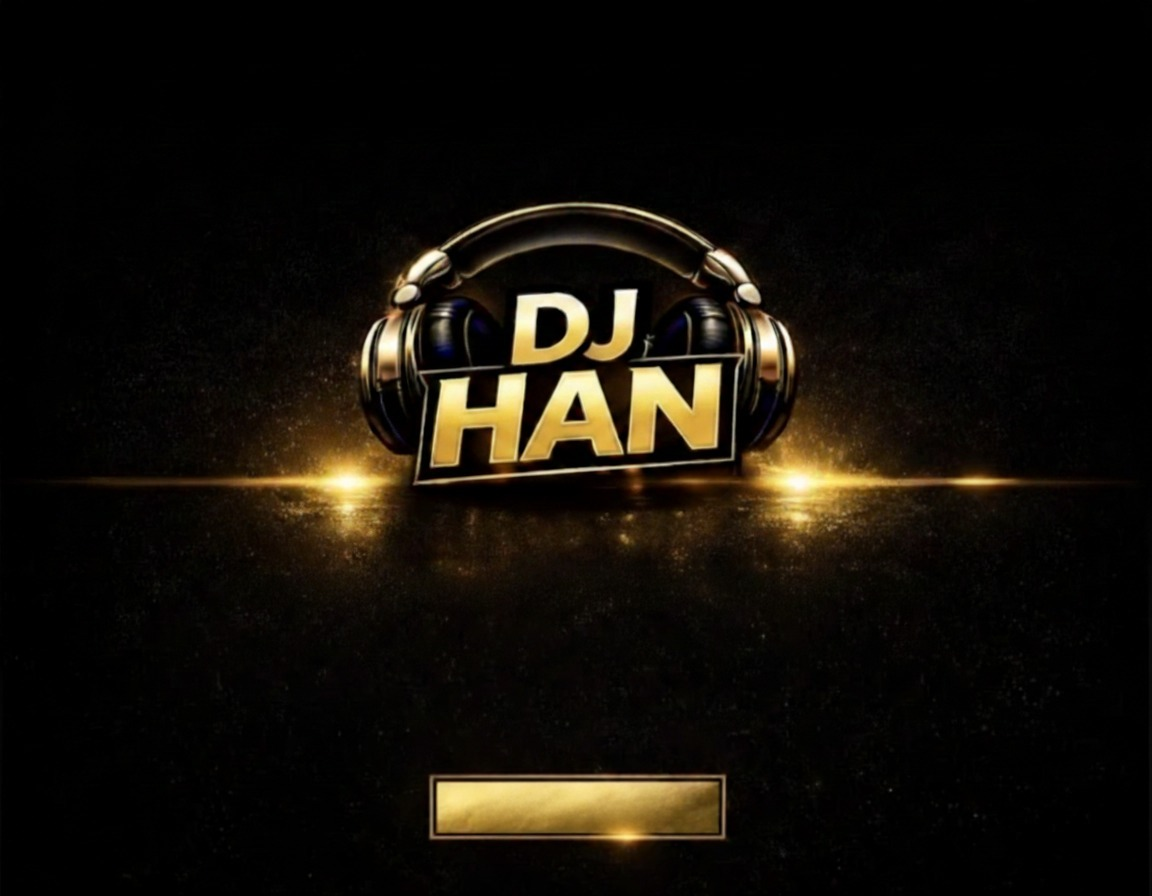
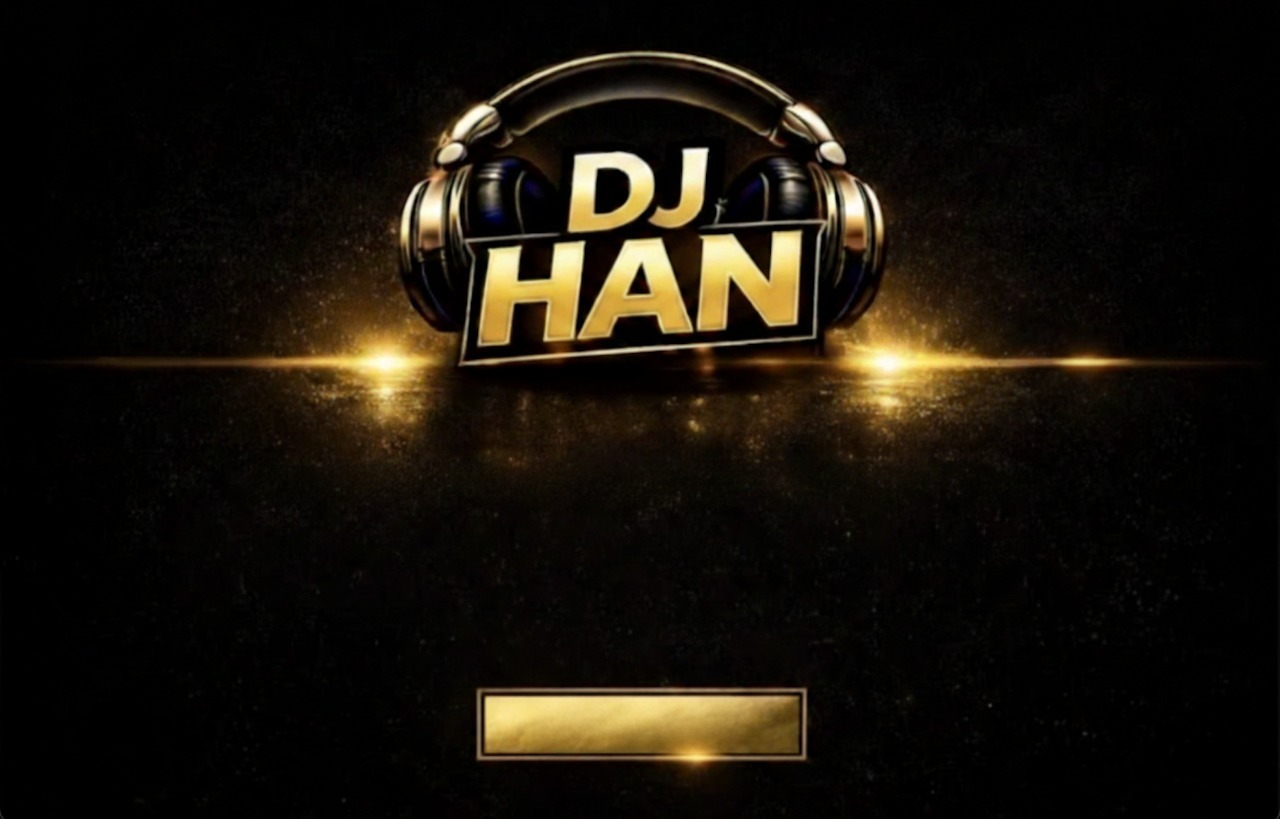
a

Changed region(s): [[0.0625, 0.0611, 0.9375, 0.6716], [0.375, 0.8242, 0.625, 0.9463]]

diff --git a/index.html b/index.html
@@ -68,40 +68,36 @@
     <div class="container hero-inner"
       style="text-align:center; display:flex; flex-direction:column; align-items:center; padding-top:40px;">
       <!-- Spacer to push next content down to lower third -->
-      <div style="margin-top: 450px;"></div>
+      <div style="margin-top: 530px;"></div>
 
       <h2 id="hero-title" class="h1"
-        style="font-size: clamp(2rem, 4vw, 3.5rem); text-transform:uppercase; letter-spacing:0.02em; margin-bottom:15px;">
+        style="font-size: clamp(2rem, 4vw, 3.5rem); text-transform:uppercase; letter-spacing:0.05em; margin-top:-20px; margin-bottom:50px;">
         <span class="text-gradient-gold" style="display:block; line-height:1.2;">Turn Your Event Into A</span>
         <span class="text-gradient-gold" style="display:block; line-height:1.2;">Night They’ll Never Forget</span>
       </h2>
 
       <p id="hero-subtitle" class="sub"
-        style="font-size:0.95rem; opacity:0.95; max-width:900px; margin-bottom:80px; letter-spacing:0.5px; color: #eee; font-family: Montserrat, sans-serif; font-weight: 500;">
+        style="font-size:1rem; opacity:0.95; max-width:900px; margin-top:-10px; margin-bottom:40px; letter-spacing:1px; color: #eee; font-family: Montserrat, sans-serif; font-weight: 500;">
         Professional DJ <span style="color:#d4af37">•</span> Weddings <span style="color:#d4af37">•</span> Bar/Bat
         Mitzvahs <span style="color:#d4af37">•</span> Private Events <span style="color:#d4af37">•</span> Corporate
       </p>
 
       <div class="hero-ctas" style="justify-content:center;">
-        <a id="hero-btn-primary" class="text-link-gold" href="#book">Book Now</a>
+        <a id="hero-btn-primary" class="btn btn-gold-transparent" href="#book">Book Now</a>
       </div>
     </div>
   </section>
 
   <!-- Media Section: Gap Reduced -->
-  <section id="media" class="section" style="padding:0; max-width:100%; overflow:hidden;">
+  <section id="media" class="section media-section" style="padding:0; max-width:100%; overflow:hidden;">
     <div style="width:100%; padding:0; margin:0;">
       <div class="media-bg-wrapper"
-        style="position:relative; width:100%; max-width:100%; margin:0; aspect-ratio: 16/9; background: url('assets/image-2.png') no-repeat center center / 100% 100%;">
+        style="position:relative; width:100%; max-width:100%; margin:0; aspect-ratio: 16/9; background: url('assets/image-2.jpeg') no-repeat center center / 100% 100%;">
 
         <!-- Header Text -->
         <div class="section-header-box"
           style="position:absolute; top:14%; left:5%; width:54%; height:12%; display:flex; align-items:center; justify-content:center;">
-          <h2 id="media-title" class="section-title" style="margin:0; letter-spacing: 2px; text-transform: uppercase; font-size: clamp(1.5rem, 2.5vw, 3.5rem); line-height:1; font-weight:800; 
-                   background: linear-gradient(180deg, #efdca4 0%, #e6b422 100%);
-                   -webkit-background-clip: text; background-clip: text; 
-                   -webkit-text-fill-color: transparent;
-                   filter: drop-shadow(0 2px 5px rgba(255, 215, 0, 0.4)) drop-shadow(0 2px 2px rgba(0,0,0,0.8));">
+          <h2 id="media-title" class="media-heading media-gold-text">
             See The Energy. Feel The Moment.
           </h2>
         </div>
@@ -117,13 +113,13 @@
         <!-- Testimonials: Moved closer to center (Right 8%) -->
         <div class="testimonials-frame"
           style="position:absolute; top:10%; right:3%; width:28%; height:82%; display:flex; flex-direction:column; justify-content:center; align-items:center; text-align:center;">
-          <h3 id="testimonials-title" class="text-gradient-gold"
-            style="font-size:clamp(1.5rem, 3vw, 3.5rem); margin-bottom:10px; letter-spacing:1px; line-height:1.2;">
+          <h3 id="testimonials-title" class="media-gold-text"
+            style="font-size:clamp(1.5rem, 3vw, 3.5rem); margin-bottom:10px; line-height:1.2;">
             VIDEO
             TESTIMONIALS
           </h3>
-          <p id="testimonials-status" class="text-gradient-gold"
-            style="letter-spacing:3px; font-size:clamp(1rem, 2vw, 2rem); font-weight:600; margin:0;">COMING
+          <p id="testimonials-status" class="media-gold-text media-gold-thin"
+            style="font-size:clamp(1rem, 2vw, 2rem); margin:0;">COMING
             SOON</p>
         </div>
       </div>
@@ -135,15 +131,12 @@
     <div style="width:100%; padding:0; margin:0;">
       <!-- Wrapper for Image 3 -->
       <div class="book-bg-wrapper"
-        style="position:relative; width:100%; margin:0 auto; aspect-ratio: 16/9; background: url('assets/image-3.png') no-repeat center center / 100% 100%; display:flex; justify-content:center;">
+        style="position:relative; width:100%; margin:0 auto; aspect-ratio: 16/9; background: url('assets/image-3.jpeg') no-repeat center center / 100% 100%; display:flex; justify-content:center;">
 
         <!-- Section Heading -->
-        <div style="position:absolute; top:6%; left:50%; transform:translateX(-50%); text-align:center; width:90%;">
-          <h2 id="cta-title" class="section-title" style="margin:0; letter-spacing: 2px; text-transform: uppercase; font-size: clamp(2rem, 4vw, 4.5rem); line-height:1.2; font-weight:800; 
-                   background: linear-gradient(180deg, #efdca4 0%, #e6b422 100%);
-                   -webkit-background-clip: text; background-clip: text; 
-                   -webkit-text-fill-color: transparent;
-                   filter: drop-shadow(0 2px 5px rgba(255, 215, 0, 0.4)) drop-shadow(0 2px 2px rgba(0,0,0,0.8));">
+        <div style="position:absolute; top:7%; left:50%; transform:translateX(-50%); text-align:center; width:90%;">
+          <h2 id="cta-title" class="media-gold-text"
+            style="margin:0; font-size: clamp(1.8rem, 3.2vw, 3.8rem); line-height:1.15; font-weight:600; letter-spacing:0.03em;">
             Ready to lock in your date?
           </h2>
         </div>
@@ -151,58 +144,58 @@
         <form method="POST" action="#" style="width:100%; height:100%; position:relative;">
 
           <!-- Row 1: Name & Phone (Approx Top 27%) -->
-          <label id="label-name"
-            style="position:absolute; top:24%; left:15%; font-family:Oswald; font-size:clamp(0.7rem, 1.2vw, 1.2rem); letter-spacing:1px; font-weight:600;
-                        background: linear-gradient(180deg, #efdca4 0%, #e6b422 100%); -webkit-background-clip: text; background-clip: text; -webkit-text-fill-color: transparent;">NAME</label>
+          <label id="label-name" class="form-label"
+            style="position:absolute; top:24%; left:15%; font-size:clamp(0.9rem, 1.7vw, 1.5rem); font-weight:600;
+                        background: linear-gradient(180deg, #cabd98 0%, #ddbb56 100%); -webkit-background-clip: text; background-clip: text; -webkit-text-fill-color: transparent;">Name</label>
           <input name="name" required
             style="position:absolute; top:28%; left:15%; width:35%; height:6%; background:transparent; border:none; color:#e6b422; font-family:Oswald; font-size:clamp(0.8rem, 1.5vw, 1.5rem); letter-spacing:1px; outline:none; padding-left:10px;" />
 
-          <label id="label-phone"
-            style="position:absolute; top:24%; left:52%; font-family:Oswald; font-size:clamp(0.7rem, 1.2vw, 1.2rem); letter-spacing:1px; font-weight:600;
-                        background: linear-gradient(180deg, #efdca4 0%, #e6b422 100%); -webkit-background-clip: text; background-clip: text; -webkit-text-fill-color: transparent;">PHONE</label>
+          <label id="label-phone" class="form-label"
+            style="position:absolute; top:24%; left:52%; font-size:clamp(0.9rem, 1.7vw, 1.5rem); font-weight:600;
+                        background: linear-gradient(180deg, #cabd98 0%, #ddbb56 100%); -webkit-background-clip: text; background-clip: text; -webkit-text-fill-color: transparent;">Phone</label>
           <input name="phone" required
             style="position:absolute; top:28%; left:52%; width:36.5%; height:6%; background:transparent; border:none; color:#e6b422; font-family:Oswald; font-size:clamp(0.8rem, 1.5vw, 1.5rem); letter-spacing:1px; outline:none; padding-left:10px;" />
 
           <!-- Row 2: Email & Event Type (Approx Top 41%) -->
-          <label id="label-email"
-            style="position:absolute; top:36%; left:15%; font-family:Oswald; font-size:clamp(0.7rem, 1.2vw, 1.2rem); letter-spacing:1px; font-weight:600;
-                        background: linear-gradient(180deg, #efdca4 0%, #e6b422 100%); -webkit-background-clip: text; background-clip: text; -webkit-text-fill-color: transparent;">EMAIL</label>
+          <label id="label-email" class="form-label"
+            style="position:absolute; top:36%; left:15%; font-size:clamp(0.9rem, 1.7vw, 1.5rem); font-weight:600;
+                        background: linear-gradient(180deg, #cabd98 0%, #ddbb56 100%); -webkit-background-clip: text; background-clip: text; -webkit-text-fill-color: transparent;">Email</label>
           <input name="email" type="email" required
             style="position:absolute; top:40%; left:15%; width:35%; height:6%; background:transparent; border:none; color:#e6b422; font-family:Oswald; font-size:clamp(0.8rem, 1.5vw, 1.5rem); letter-spacing:1px; outline:none; padding-left:10px;" />
 
-          <label id="label-type"
-            style="position:absolute; top:36%; left:52%; font-family:Oswald; font-size:clamp(0.7rem, 1.2vw, 1.2rem); letter-spacing:1px; font-weight:600;
-                        background: linear-gradient(180deg, #efdca4 0%, #e6b422 100%); -webkit-background-clip: text; background-clip: text; -webkit-text-fill-color: transparent;">EVENT
-            TYPE</label>
+          <label id="label-type" class="form-label"
+            style="position:absolute; top:36%; left:52%; font-size:clamp(0.9rem, 1.7vw, 1.5rem); font-weight:600;
+                        background: linear-gradient(180deg, #cabd98 0%, #ddbb56 100%); -webkit-background-clip: text; background-clip: text; -webkit-text-fill-color: transparent;">Event
+            Type</label>
           <input name="eventType"
             style="position:absolute; top:40%; left:52%; width:36.5%; height:6%; background:transparent; border:none; color:#e6b422; font-family:Oswald; font-size:clamp(0.8rem, 1.5vw, 1.5rem); letter-spacing:1px; outline:none; padding-left:10px;" />
 
           <!-- Row 3: Event Date & Venue (Approx Top 55%) -->
-          <label id="label-date"
-            style="position:absolute; top:47%; left:15%; font-family:Oswald; font-size:clamp(0.7rem, 1.2vw, 1.2rem); letter-spacing:1px; font-weight:600;
-                        background: linear-gradient(180deg, #efdca4 0%, #e6b422 100%); -webkit-background-clip: text; background-clip: text; -webkit-text-fill-color: transparent;">EVENT
-            DATE</label>
+          <label id="label-date" class="form-label"
+            style="position:absolute; top:47%; left:15%; font-size:clamp(0.9rem, 1.7vw, 1.5rem); font-weight:600;
+                        background: linear-gradient(180deg, #ddbb56 0%, #cabd98 100%); -webkit-background-clip: text; background-clip: text; -webkit-text-fill-color: transparent;">Event
+            Date</label>
           <input name="eventDate" onfocus="(this.type='date')" onblur="(this.type='text')"
             style="position:absolute; top:51%; left:15%; width:35%; height:6%; background:transparent; border:none; color:#e6b422; font-family:Oswald; font-size:clamp(0.8rem, 1.5vw, 1.5rem); letter-spacing:1px; outline:none; padding-left:10px;" />
 
-          <label id="label-location"
-            style="position:absolute; top:47%; left:52%; font-family:Oswald; font-size:clamp(0.7rem, 1.2vw, 1.2rem); letter-spacing:1px; font-weight:600;
-                        background: linear-gradient(180deg, #efdca4 0%, #e6b422 100%); -webkit-background-clip: text; background-clip: text; -webkit-text-fill-color: transparent;">VENUE
-            LOCATION</label>
+          <label id="label-location" class="form-label"
+            style="position:absolute; top:47%; left:52%; font-size:clamp(0.9rem, 1.7vw, 1.5rem); font-weight:600;
+                        background: linear-gradient(180deg, #ddbb56 0%, #cabd98 100%); -webkit-background-clip: text; background-clip: text; -webkit-text-fill-color: transparent;">Venue
+            Location</label>
           <input name="location"
             style="position:absolute; top:51%; left:52%; width:36.5%; height:6%; background:transparent; border:none; color:#e6b422; font-family:Oswald; font-size:clamp(0.8rem, 1.5vw, 1.5rem); letter-spacing:1px; outline:none; padding-left:10px;" />
 
           <!-- Row 4: Guest Count (Small) & Message (Large) (Approx Top 69%) -->
-          <label id="label-guests"
-            style="position:absolute; top:59%; left:15%; font-family:Oswald; font-size:clamp(0.7rem, 1.2vw, 1.2rem); letter-spacing:1px; font-weight:600;
-                        background: linear-gradient(180deg, #efdca4 0%, #e6b422 100%); -webkit-background-clip: text; background-clip: text; -webkit-text-fill-color: transparent;">ESTIMATED
-            GUESTS</label>
+          <label id="label-guests" class="form-label"
+            style="position:absolute; top:59%; left:15%; font-size:clamp(0.9rem, 1.7vw, 1.5rem); font-weight:600;
+                        background: linear-gradient(180deg, #cabd98 0%, #ddbb56 100%); -webkit-background-clip: text; background-clip: text; -webkit-text-fill-color: transparent;">Estimated
+            Guests</label>
           <input name="guestCount"
             style="position:absolute; top:63%; left:15%; width:21%; height:6%; background:transparent; border:none; color:#e6b422; font-family:Oswald; font-size:clamp(0.8rem, 1.5vw, 1.5rem); letter-spacing:1px; outline:none; padding-left:10px;" />
 
-          <label id="label-message"
-            style="position:absolute; top:59%; left:38.5%; font-family:Oswald; font-size:clamp(0.7rem, 1.2vw, 1.2rem); letter-spacing:1px; font-weight:600;
-                        background: linear-gradient(180deg, #efdca4 0%, #e6b422 100%); -webkit-background-clip: text; background-clip: text; -webkit-text-fill-color: transparent;">MESSAGE</label>
+          <label id="label-message" class="form-label"
+            style="position:absolute; top:59%; left:38.5%; font-size:clamp(0.9rem, 1.7vw, 1.5rem); font-weight:600;
+                        background: linear-gradient(180deg, #ddbb56 0%, #cabd98 100%); -webkit-background-clip: text; background-clip: text; -webkit-text-fill-color: transparent;">Message</label>
           <input name="message"
             style="position:absolute; top:63%; left:38.5%; width:50%; height:10%; background:transparent; border:none; color:#e6b422; font-family:Oswald; font-size:clamp(0.8rem, 1.5vw, 1.5rem); letter-spacing:1px; outline:none; padding-left:10px; padding-top:10px;" />
 

diff --git a/styles.css b/styles.css
@@ -147,7 +147,7 @@ a {
 }
 
 .text-gradient-gold {
-  background: linear-gradient(180deg, #fff9e6 0%, #f9d976 25%, #f5b400 50%, #b38728 75%, #806000 100%);
+  background: linear-gradient(180deg, #fff9e6 0%, #fff9e6 25%, #f9d976 50%, #b38728 75%, #806000 100%);
   -webkit-background-clip: text;
   background-clip: text;
   -webkit-text-fill-color: transparent;
@@ -155,14 +155,25 @@ a {
   display: inline-block;
 }
 
-.btn-gold-solid {
-  background: linear-gradient(180deg, #F0E68C 0%, #d4af37 30%, #aa8528 70%, #806000 100%);
-  color: #000;
-  border: 1px solid #FFFFF0;
-  box-shadow: 0 4px 15px rgba(0, 0, 0, 0.5);
-  font-family: Oswald, sans-serif;
+.btn-gold-transparent {
+  background: transparent;
+  color: #000000 !important;
+  border: none;
+  font-family: Lexend, sans-serif;
+  font-weight: 1000;
   text-transform: uppercase;
-  letter-spacing: 1px;
+  letter-spacing: 0.5px;
+  padding: 12px 55px;
+  cursor: pointer;
+  transition: all 0.3s ease;
+  margin-top: 70px;
+  font-size: 2.2rem;
+}
+
+.btn-gold-transparent:hover {
+  color: var(--gold) !important;
+  text-shadow: 0 0 10px rgba(245, 180, 0, 0.5);
+  transform: scale(1.05);
 }
 
 .btn-gold-solid:hover {
@@ -222,7 +233,8 @@ a {
 /* Hero */
 .hero {
   position: relative;
-  background: #000 url("assets/image-1.jpeg") center/85% no-repeat;
+  z-index: 1;
+  background: #000 url("assets/image-1.jpeg") center center / 95% no-repeat;
   padding-bottom: 120px;
 }
 
@@ -244,8 +256,10 @@ a {
 }
 
 .h1 {
-  font-family: Oswald, Montserrat, system-ui, sans-serif;
-  font-weight: 700;
+  font-family: Lexend, sans-serif;
+  font-weight: 800;
+  text-transform: uppercase;
+  letter-spacing: 0.05em;
   background: linear-gradient(180deg, #fff9e6 0%, #f9d976 25%, #f5b400 50%, #b38728 75%, #806000 100%);
   -webkit-background-clip: text;
   background-clip: text;
@@ -253,9 +267,68 @@ a {
   filter: drop-shadow(0 2px 3px rgba(0, 0, 0, 0.8));
 }
 
+.media-heading {
+  font-family: "Oswald", system-ui, -apple-system, BlinkMacSystemFont, "Segoe UI", sans-serif;
+  font-weight: 500;
+  text-transform: uppercase;
+  letter-spacing: 0.08em;
+  font-size: clamp(1.6rem, 2.6vw, 3.2rem);
+}
+
+/* Shared typography for the 4 gold media texts (SEE THE ENERGY, VIDEO,
+   TESTIMONIALS, COMING SOON) so they all look consistent. */
+.media-gold-text {
+  font-family: "Lexend", system-ui, -apple-system, BlinkMacSystemFont, "Segoe UI", sans-serif;
+  text-transform: uppercase;
+  font-weight: 700;
+  letter-spacing: 0.01em;
+  /* Vertical gradient: light -> dark -> light */
+  background: linear-gradient(230deg, #bdb39b 0%, #dea132 55%, #d9c086 100%);
+  -webkit-background-clip: text;
+  background-clip: text;
+  -webkit-text-fill-color: transparent;
+  margin-top: 20px;
+
+}
+
+/* Slightly thinner style just for "COMING SOON" */
+.media-gold-thin {
+  font-weight: 500;
+  letter-spacing: 0.12em;
+}
+
+/* Form field labels (Name, Phone, etc.) */
+.form-label {
+  font-family: "Lexend", system-ui, -apple-system, BlinkMacSystemFont, "Segoe UI", sans-serif;
+  font-weight: 400;
+  letter-spacing: 0.08em;
+  /* Solid label color */
+  color: #e8c78e;
+}
+
+.form-label::after {
+  content: ":";
+  margin-left: 2px;
+}
+
 .section {
   padding: 80px 0;
   background: #050505;
+}
+
+/* Media (second image) section with overlap */
+.media-section {
+  position: relative;
+  z-index: 2;
+  /* Pull the second section up so it slightly overlaps image 1 */
+  margin-top: -40px;
+}
+
+/* Draw the actual lines directly on the image wrapper so they don't get
+   affected by zoom/overlap quirks */
+.media-bg-wrapper {
+  border-top: 3px solid #c0a584;
+  border-bottom: 3px solid #c0a584;
 }
 
 .section.alt {
@@ -337,4 +410,11 @@ footer {
 .video-frame,
 .testimonials-frame {
   animation: glow 4s infinite ease-in-out;
+}
+
+/* Mobile adjustments */
+@media (max-width: 768px) {
+  .btn-gold-transparent {
+    margin-top: -60px;
+  }
 }
